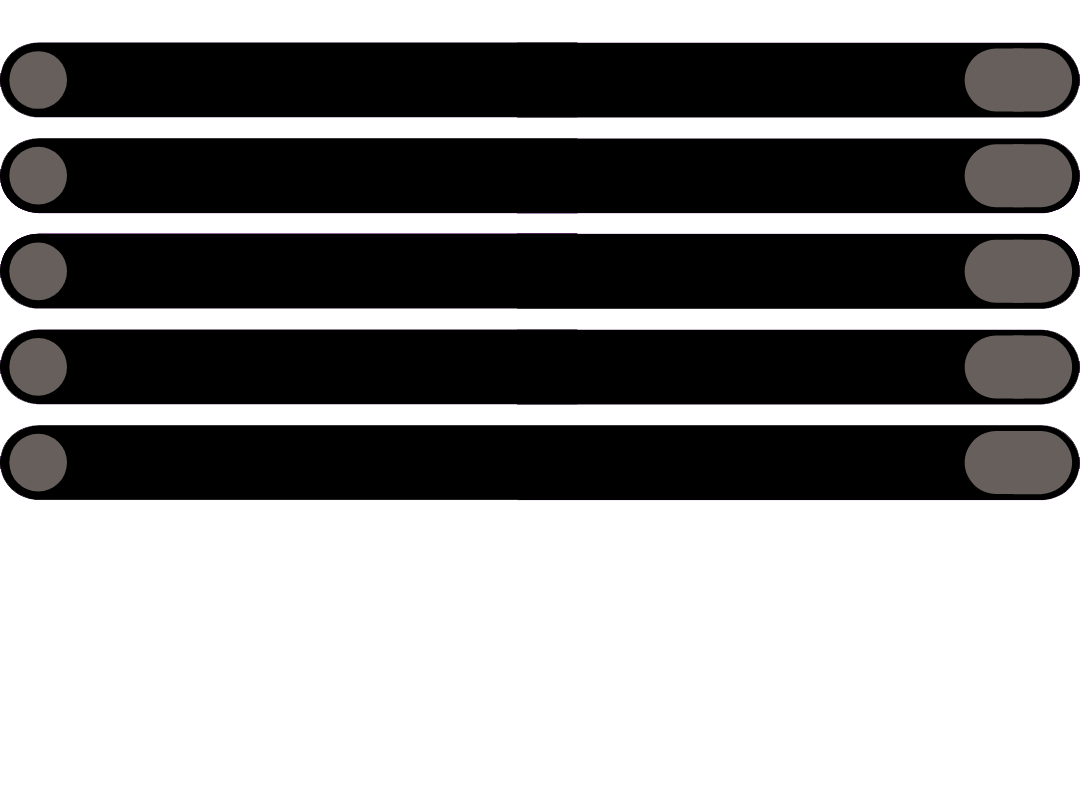
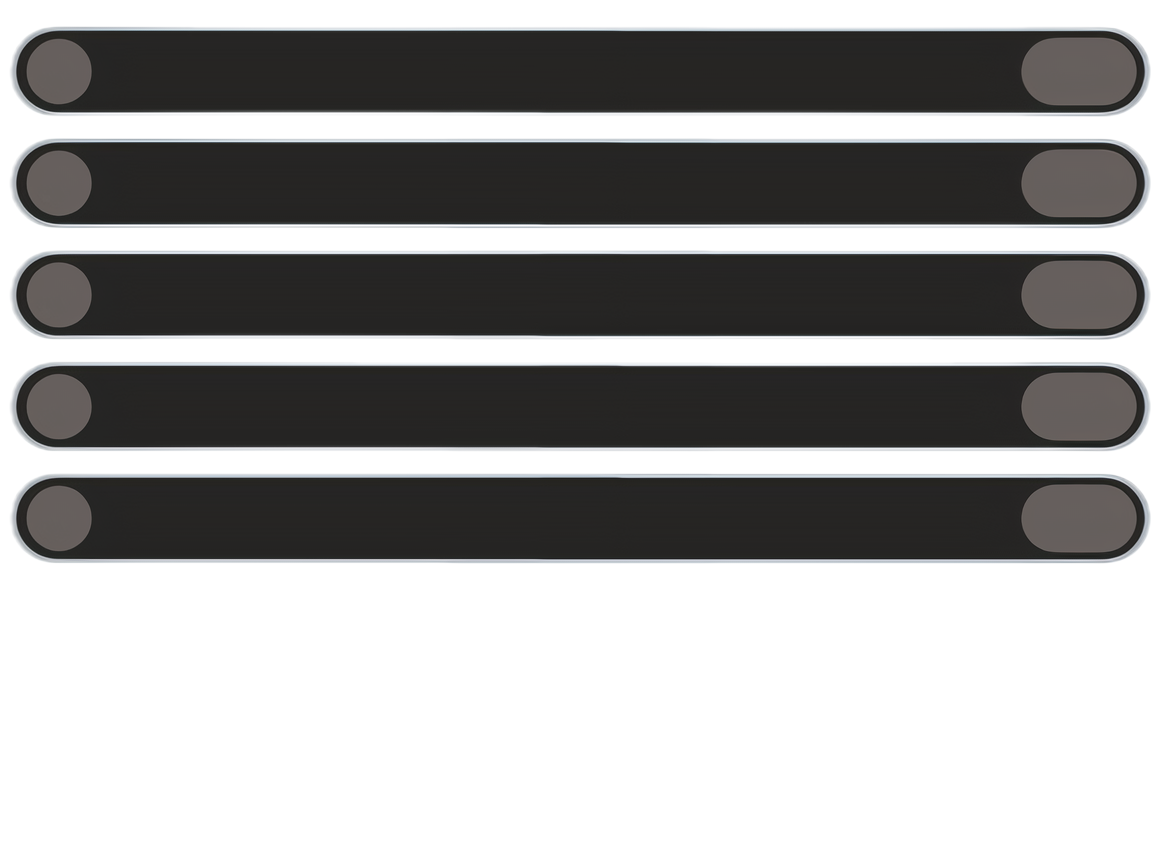
update ranking + blur background

diff --git a/src/project/pbo/states/RankingState.java b/src/project/pbo/states/RankingState.java
@@ -12,14 +12,15 @@ import java.awt.*;
 import java.util.ArrayList;
 
 public class RankingState extends State implements SIZE {
-    private final ArrayList <User> hello = handler.getDb().getUsers();
+    private final ArrayList <User> rank = handler.getDb().getUsers();
+    private final MouseManager mouseManager;
+    private final MainMenu currMain;
+    private final Clip click;
+
+    private int ctrBg, timer;
     private float alhpa = 0.1f;
     private boolean animated;
     private String jenisAnimasi;
-    private final MouseManager mouseManager;
-    private final MainMenu currMain;
-
-    private final Clip click;
 
     private final Rectangle exitBtn = new Rectangle(962, 26, 89, 36);
 
@@ -30,12 +31,12 @@ public class RankingState extends State implements SIZE {
         click = Assets.audioClick;
         handler.setVol(click, 0.1);
 
-        if(hello.size() > 0){
-            for (int i = 1; i < hello.size(); i++) {
-                if(hello.get(i-1).getPlayer().getHighestStep() < hello.get(i).getPlayer().getHighestStep()){
-                    User temp = hello.get(i-1);
-                    hello.set(i-1, hello.get(i));
-                    hello.set(i, temp);
+        if(rank.size() > 0){
+            for (int i = 1; i < rank.size(); i++) {
+                if(rank.get(i-1).getPlayer().getHighestStep() < rank.get(i).getPlayer().getHighestStep()){
+                    User temp = rank.get(i-1);
+                    rank.set(i-1, rank.get(i));
+                    rank.set(i, temp);
                 }
             }
         }
@@ -85,37 +86,42 @@ public class RankingState extends State implements SIZE {
         ((Graphics2D) g).setComposite(AlphaComposite.getInstance(AlphaComposite.SRC_OVER, alhpa));
         ((Graphics2D) g).setRenderingHint(RenderingHints.KEY_ANTIALIASING, RenderingHints.VALUE_ANTIALIAS_ON);
 
-        g.drawImage(Assets.rankingBG, 0, 0, width, height, null);
+        g.drawImage(Assets.blurBG[ctrBg], 0, 0, width, height, null);
 
         // BUTTON EXIT
         Text.drawString(g, "EXIT", 1019, 45, true, Color.WHITE, Assets.smallFont);
         g.drawRect(962, 26, 89, 36);
         g.drawImage(Assets.xIcon, 971, 38, 12, 12, null);
 
-        Text.drawString(g, "RANKING", 540, 155, true, Color.WHITE, Assets.superMegaBigFont);
-        g.drawImage(Assets.textArea, 170, 220, 740, 530, null);
+        Text.drawString(g, "RANKING", 538, 145, true, Color.WHITE, Assets.superMegaBigFont);
+        g.drawImage(Assets.textArea, 170, 205, 730, 530, null);
 
 
         for (int i = 0; i < 5; i++) {
-            Text.drawString(g, (i+1) + "", 196, 274+(63*i), true, Color.WHITE, Assets.mediumFont);
+            Text.drawString(g, (i+1) + "", 206, 250+(69*i), true, Color.WHITE, Assets.mediumFont);
 
             // NAMA PLAYER
-            if(i < hello.size()){
-                if(hello.get(i).getPlayer().getHighestStep() > 0){
-                    if(i == 0) g.drawImage(Assets.medalIcon, 240, 220, 75, 75, null);
-                    else g.drawImage(Assets.avatar, 256, 316+(63*(i-1)), 40, 40, null);
+            if(i < rank.size()){
+                if(rank.get(i).getPlayer().getHighestStep() > 0){
+                    if(i == 0) g.drawImage(Assets.medalIcon, 253, 197, 77, 77, null);
+                    else g.drawImage(Assets.avatar, 271, 297+(68*(i-1)), 42, 42, null);
 
-                    Text.drawString(g, hello.get(i).getUsername(), 360, 280+(63*i), false, Color.WHITE, Assets.mediumFont);
-                    Text.drawString(g, String.valueOf(hello.get(i).getPlayer().getHighestStep()), 868, 274+(63*i), true, Color.WHITE, Assets.mediumFont);
+                    Text.drawString(g, rank.get(i).getUsername(), 360, 257+(68*i), false, Color.WHITE, Assets.mediumFont);
+                    Text.drawString(g, String.valueOf(rank.get(i).getPlayer().getHighestStep()), 851, 250+(69*i), true, Color.WHITE, Assets.mediumFont);
                 } else {
-                    Text.drawString(g, "EMPTY", 530, 275+(63*i), true, Color.WHITE, Assets.mediumFont);
-                    Text.drawString(g, "-", 868, 275+(63*i), true, Color.WHITE, Assets.mediumFont);
+                    Text.drawString(g, "EMPTY", 528, 251+(69*i), true, Color.WHITE, Assets.mediumFont);
+                    Text.drawString(g, "-", 850, 250+(69*i), true, Color.WHITE, Assets.mediumFont);
                 }
             } else {
-                Text.drawString(g, "EMPTY", 530, 275+(63*i), true, Color.WHITE, Assets.mediumFont);
-                Text.drawString(g, "-", 868, 275+(63*i), true, Color.WHITE, Assets.mediumFont);
+                Text.drawString(g, "EMPTY", 528, 251+(69*i), true, Color.WHITE, Assets.mediumFont);
+                Text.drawString(g, "-", 850, 250+(69*i), true, Color.WHITE, Assets.mediumFont);
             }
         }
+
+        if(timer == 0)
+            ctrBg = (ctrBg != Assets.blurBG.length - 1) ? ++ctrBg : 0;
+
+        this.timer = (this.timer == 4) ? 0 : ++timer;
     }
 
     @Override

diff --git a/src/project/pbo/gfx/Assets.java b/src/project/pbo/gfx/Assets.java
@@ -14,15 +14,16 @@ public class Assets {
      */
 //
 
-    public static BufferedImage[] menuBG = new BufferedImage[20], coinsIcon = new BufferedImage[7];
+    public static BufferedImage[] menuBG = new BufferedImage[20], blurBG = new BufferedImage[20];
+    public static BufferedImage[] coinsIcon = new BufferedImage[7];
     public static BufferedImage[] mummyEnemy = new BufferedImage[13];
     public static BufferedImage[] slimeEnemy = new BufferedImage[8];
     public static BufferedImage[] necroEnemy = new BufferedImage[8];
     public static BufferedImage[] shamanEnemy = new BufferedImage[11];
-    public static BufferedImage[] player = new BufferedImage[15];
+    public static BufferedImage[] player = new BufferedImage[21];
 
     public static BufferedImage mainLogo, logoSTTS, avatar;
-    public static BufferedImage loginBG, loadingBG, rankingBG, popUp, textArea;
+    public static BufferedImage loginBG, loadingBG, popUp, textArea;
     public static BufferedImage playIcon, storeIcon, settingsIcon, rankingIcon, logout, xIcon, medalIcon;
 
     public static BufferedImage card;
@@ -60,9 +61,9 @@ public class Assets {
 //        IMAGE
         // BACKGROUND IMAGE
         potongSprite(menuBG, "/images/BG/mainMenuBG.png", 1076, 540);
+        potongSprite(blurBG, "/images/BG/blurMenuBG.png", 1076, 540);
         loadingBG = ImageLoader.loadImage("/images/BG/loadingBG.jpg");
         loginBG = ImageLoader.loadImage("/images/BG/loginBG.jpg");
-        rankingBG = ImageLoader.loadImage("/images/BG/rankingBG.png");
         gameBG = ImageLoader.loadImage("/images/BG/gameBG.png");
 
         // UTILS IMAGE
@@ -80,7 +81,7 @@ public class Assets {
         logout = ImageLoader.loadImage("/images/asset/mainMenu/logout.png");
 
 //        Ranking
-        textArea = ImageLoader.loadImage("/images/asset/ranking/textArea.png");
+        textArea = ImageLoader.loadImage("/res/images/asset/ranking/textArea.png");
         xIcon = ImageLoader.loadImage("/images/asset/ranking/xIcon.png");
         medalIcon = ImageLoader.loadImage("/images/asset/ranking/medal.png");
 

diff --git a/src/project/pbo/states/GameState.java b/src/project/pbo/states/GameState.java
@@ -20,7 +20,7 @@ public class GameState extends State implements SIZE {
 
     private final User user;
     private int gold = 0;
-    private final Rectangle exitBtn = new Rectangle(1000, 13, 35, 35);
+    private final Rectangle exitBtn = new Rectangle(962, 13, 90, 35);
     private final Rectangle replayBtn = new Rectangle(597,340, 175, 35 );
 
     private int ctrHero;
@@ -178,8 +178,13 @@ public class GameState extends State implements SIZE {
         g.drawImage(Assets.coinsIcon[ctrCoin], 15, 10, 35, 35, null);
         Text.drawString(g, "" + gold, 70, 37, false, new Color(255,191,64), Assets.biggerFont);
         Text.drawString(g, "Step " + (step-1), 540, 30, true, Color.gray, Assets.biggerFont);
+
+//        Exit Game
         g.setColor(Color.red);
-        g.drawImage(Assets.logout, 1000, 13, 35, 35, null);
+        Text.drawString(g, "EXIT", 1019, 31, true, Color.WHITE, Assets.smallFont);
+        g.drawRect(962, 12, 89, 36);
+        g.drawImage(Assets.xIcon, 971, 24, 12, 12, null);
+
 
 //        Hero Memu
         g.drawImage(Assets.heroMenu, 650, 60, 400, 555, null);
